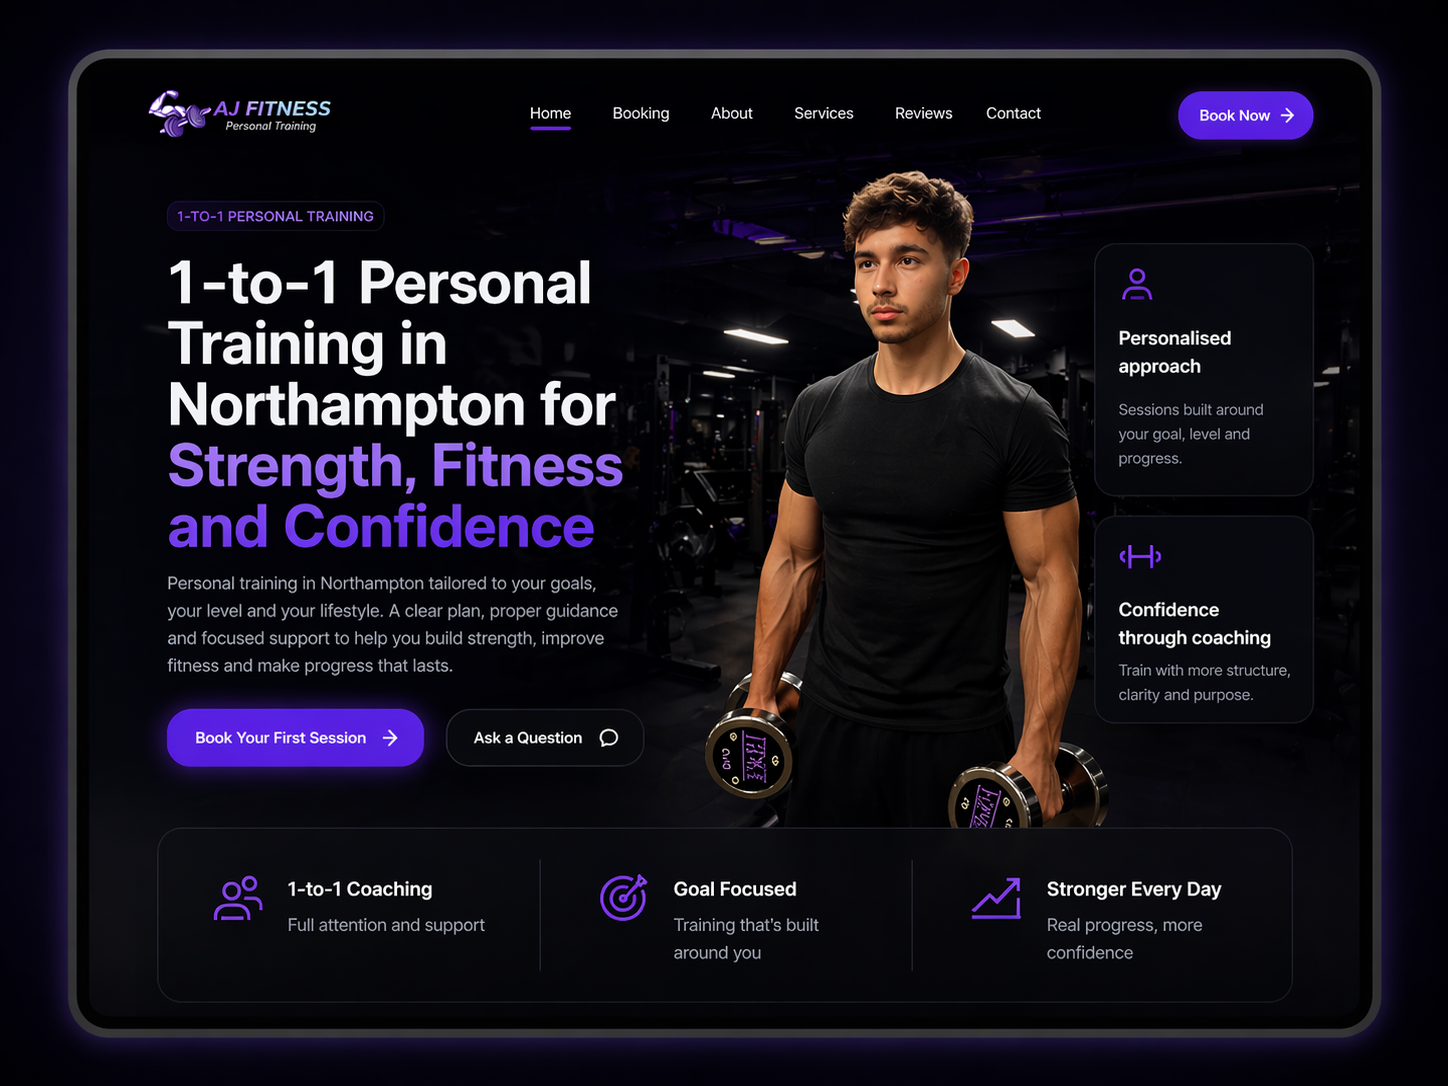
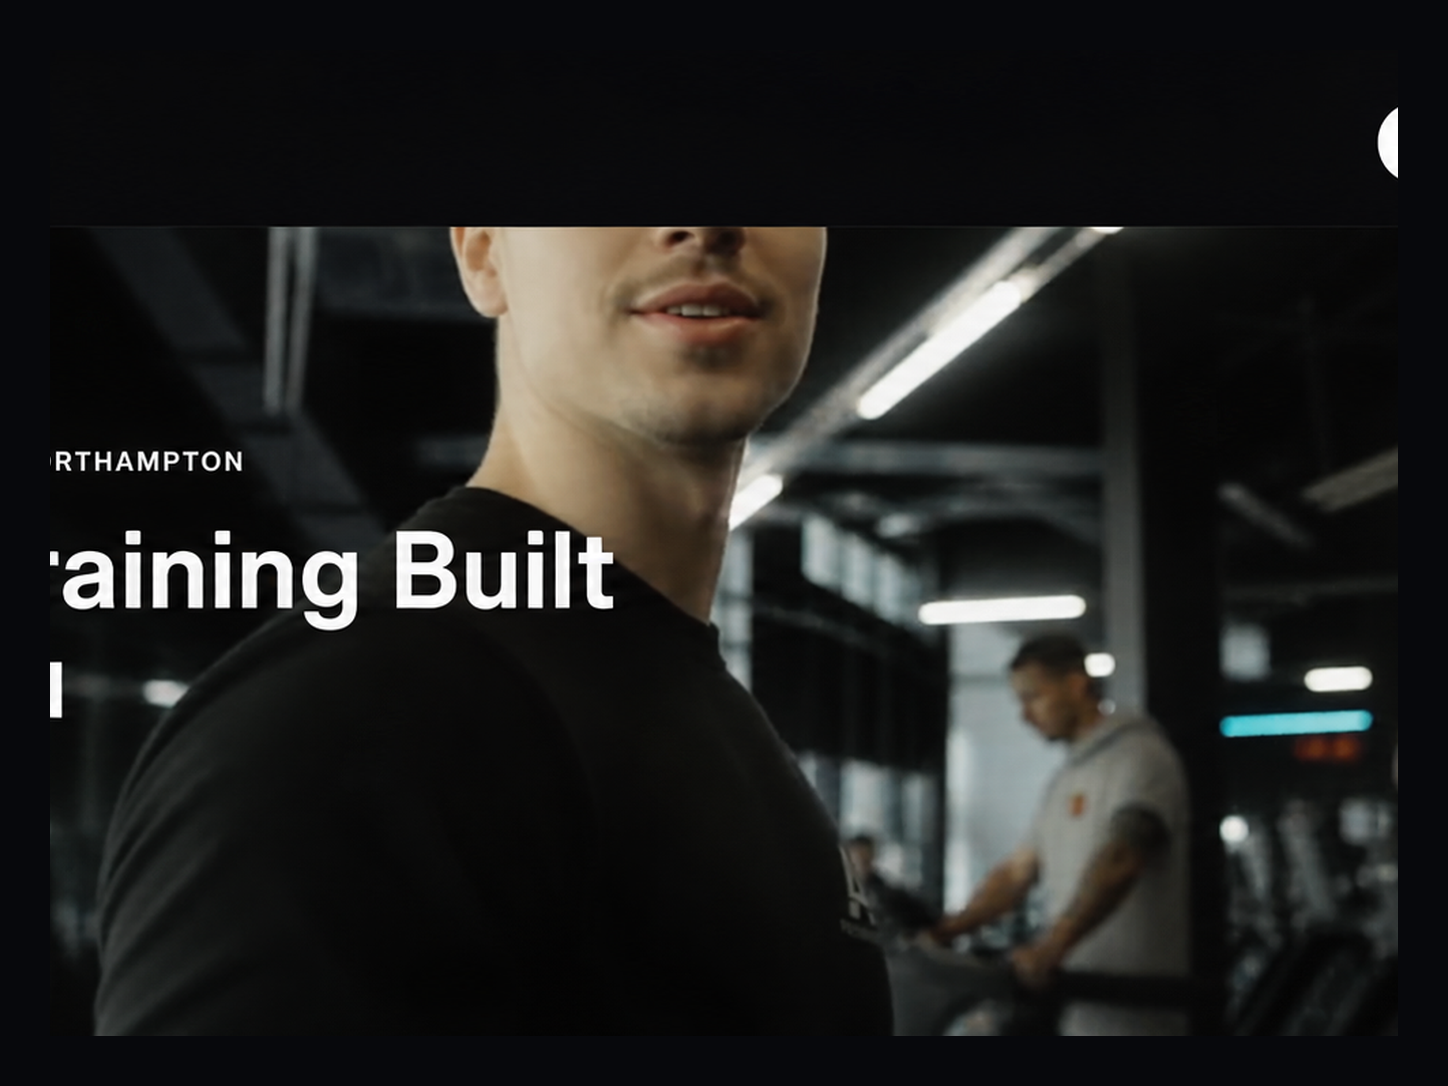
Update portfolio: AJ Fitness redesign and Olga project

diff --git a/projects.html b/projects.html
@@ -104,7 +104,7 @@
           </article>
 
           <article class="project-card">
-            <img src="images/aj-fitnes-mockup.png" alt="Strona AJ Fitness">
+            <img src="images/aj-fitnes-mockup.png?v=3" alt="Strona AJ Fitness">
             <div class="project-copy-card">
               <p class="kicker">Strona fitness</p>
               <h3>AJ Fitness</h3>
@@ -163,7 +163,7 @@
           <li>Responsywny design na wszystkie urządzenia</li>
         </ul>
 
-        <a href="https://olga-aesthetics.co.uk" target="_blank" class="project-link">Zobacz stronę</a>
+        <a href="images/olga-aesthetics-mockup.png" target="_blank" rel="noopener" class="project-link">Zobacz projekt</a>
       </div>
 
     </div>
@@ -178,7 +178,6 @@
           <span>Sergio &amp; Robi Pizzeria</span>
           <span>Static Emotion</span>
           <span>MB Shiny Clean</span>
-          <span>Olga Aesthetics</span>
         </div>
       </div>
     </section>
